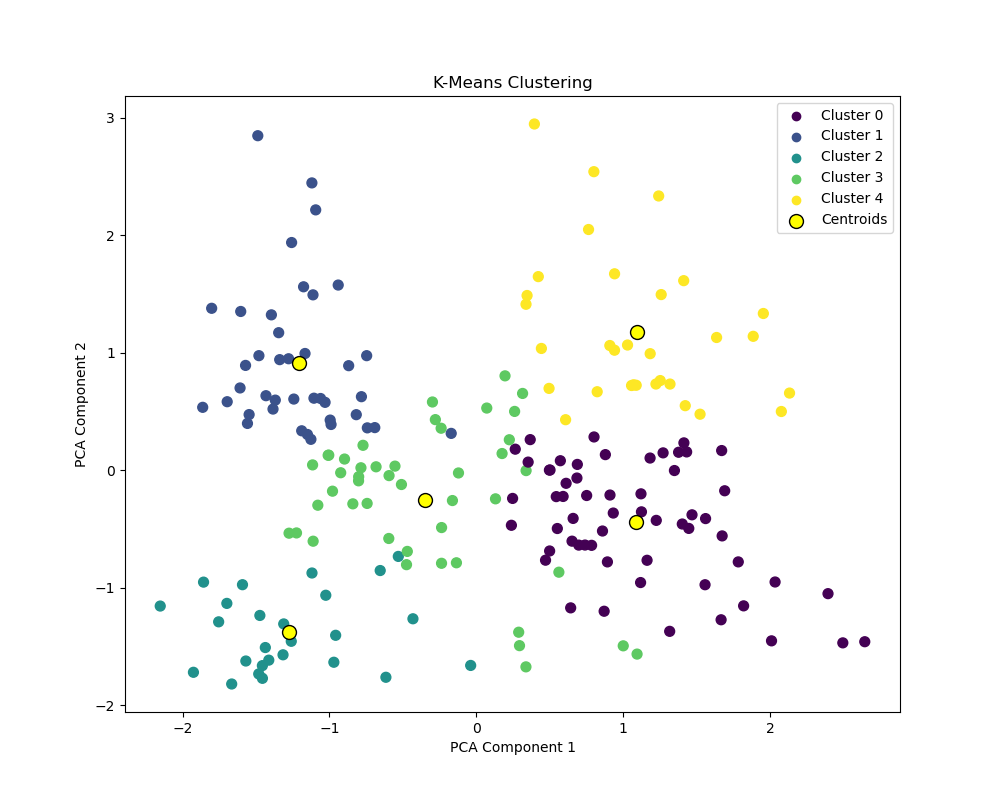
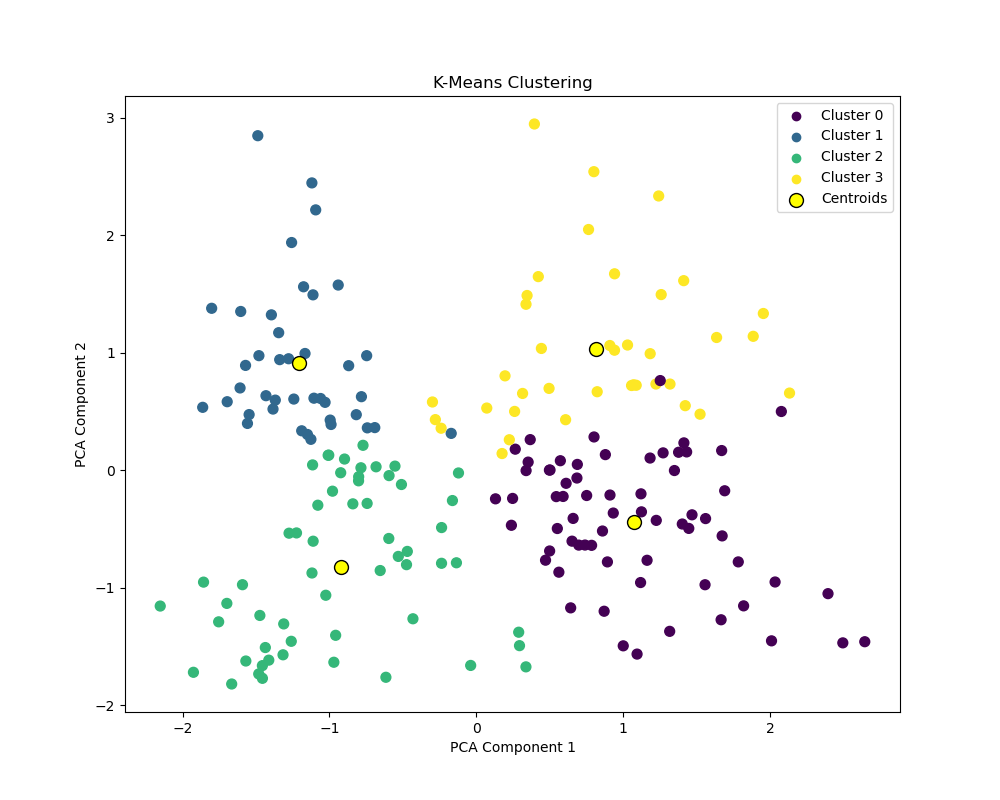
added gmm evaluation ACI

diff --git a/main.py b/main.py
@@ -1,9 +1,7 @@
 #! /usr/bin/env python
 
 #############################################################################
-#Name :Kundan ,Erin, Taj, Elliott
 #Project : 1
-
 ########## imports ###########################################################
 import pandas as pd
 import numpy as np
@@ -16,6 +14,7 @@ from sklearn.metrics import silhouette_score
 import skfuzzy as fuzz
 from scipy.spatial.distance import cdist
 from sklearn.decomposition import PCA
+from sklearn.metrics import davies_bouldin_score, calinski_harabasz_score, adjusted_rand_score, normalized_mutual_info_score
 #################################################################################
 
 
@@ -41,7 +40,7 @@ class ClusterPlay:
         data = data.drop("CustomerID", axis=1)
         
         # One-hot encoding for the Genre column 
-        data = pd.get_dummies(data, columns=['Genre'], drop_first=True)  # This will create a column 'Genre_Male'
+        data = pd.get_dummies(data, columns=['Gender'], drop_first=True)  # This will create a column 'Gender_Male'
 
         return data
 
@@ -58,7 +57,6 @@ class ClusterPlay:
         plt.savefig("correlation_graph.png")
         plt.close()
 
-    #### added taj code here ########
 
     def visualize_data(self):
         # Visualize the distribution of age, income, and spending score
@@ -73,9 +71,9 @@ class ClusterPlay:
 
         ######### by gender ############
         plt.figure(figsize=(10, 6))
-        for gender in self.data['Genre_Male'].unique():
-            plt.scatter(self.data[self.data['Genre_Male'] == gender]['Annual Income (k$)'], 
-                        self.data[self.data['Genre_Male'] == gender]['Spending Score (1-100)'], 
+        for gender in self.data['Gender_Male'].unique():
+            plt.scatter(self.data[self.data['Gender_Male'] == gender]['Annual Income (k$)'], 
+                        self.data[self.data['Gender_Male'] == gender]['Spending Score (1-100)'], 
                         label='Male' if gender == 1 else 'Female', alpha=0.7)
         plt.xlabel('Annual Income (k$)')
         plt.ylabel('Spending Score (1-100)')
@@ -207,7 +205,6 @@ class ClusterPlay:
         return kmeans.labels_, kmeans
 
     ########### not using this ##################
-    ######## added taj code here where ever distortion is present  #################
     def calculate_distortion(self, model):
         # Calculate distortion
         distances = cdist(self.scaled_data, model.cluster_centers_, 'euclidean')
@@ -268,26 +265,58 @@ class ClusterPlay:
         plt.savefig(f"{title.replace(' ', '_').lower()}.png")
         plt.close()
 
+    
+    
+    def aic_method_gaussian(self, max_clusters=10):
+        aic_values = []
+        for i in range(1, max_clusters + 1):
+            gmm = GaussianMixture(n_components=i, random_state=24)
+            gmm.fit(self.scaled_data)
+            aic_values.append(gmm.aic(self.scaled_data))
+
+        # Plotting AIC values
+        plt.figure(figsize=(10, 6))
+        plt.plot(range(1, max_clusters + 1), aic_values, marker='o')
+        plt.xlabel('Number of Clusters')
+        plt.ylabel('AIC')
+        plt.title('AIC for Gaussian Mixture Model')
+        plt.xticks(range(1, max_clusters + 1))
+        plt.grid()
+        plt.savefig("aic_gaussian_mixture.png")
+        plt.show()
+        plt.close()
+    
+    #fuc override
+    def evaluate_clustering(self, labels):
+        silhouette_avg = silhouette_score(self.scaled_data, labels)
+        dbi = davies_bouldin_score(self.scaled_data, labels)
+        ch_index = calinski_harabasz_score(self.scaled_data, labels)
+        
+        print(f'Silhouette Score: {silhouette_avg}')
+        print(f'Davies-Bouldin Index: {dbi}')
+        print(f'Calinski-Harabasz Index: {ch_index}')
+        
+
 
 def main():
-    file_name = "~/project1/Mall_Customers.csv"
+    file_name = "/jet/home/suddapal/project1_1/Mall_Customers.xls"
     pro = ClusterPlay(file_name)
     # visualize data 
     pro.visualize_data()
     # checking relation between features
     pro.correlation_graph()
     #normalize features
+    #print(pro.data.head())
     pro.normalize_features(pro.data[["Age", "Annual Income (k$)", "Spending Score (1-100)"]])
     # elbow method
     # pro.elbow_method()
-   
     ################# k-means #################################################
 
   
     ## elbow method include both distortion ,elbow and graph
     print("K means")
     pro.elbow_method_kmeans()
-    kmeans_labels, kmeans_model = pro.kmeans_clustering(n_clusters=5)
+    kmeans_labels, kmeans_model = pro.kmeans_clustering(n_clusters=4)
     pro.evaluate_clustering(kmeans_labels)
     # plot k -means cl
     #print(kmeans_labels)
@@ -301,7 +330,7 @@ def main():
     ########################## fuzzy  k-means######################################
     print("fuzzy k means")
     pro.elbow_method_fuzzy()
-    fuzzy_labels, fpc = pro.fuzzy_cmeans_clustering(n_clusters=5)
+    fuzzy_labels, fpc = pro.fuzzy_cmeans_clustering(n_clusters=4)
     fuzzy_silhouette = pro.evaluate_clustering(fuzzy_labels)
     print(f'Fuzzy Partition Coefficient: {fpc}')
     # plot fkm
@@ -310,19 +339,16 @@ def main():
     ######################### fuzzy k-means ########################################
 
 
-
     ######################## gaussian Mixture ####################################
     print("gaussian")
-    gmm_labels,gmm_model = pro.gaussian_mixture_clustering(n_clusters=5)
-    pro.evaluate_clustering(gmm_labels)
-  
-    ## for now not able calucuate distortion got to see the methods  is working both fuzz and gaus
-    #distortion = pro.calculate_distortion(gmm_model)
-    #print(f'Distortion: {distortion}')
 
+    pro.aic_method_gaussian()
+    gmm_labels,gmm_model = pro.gaussian_mixture_clustering(n_clusters=4)
+    pro.evaluate_clustering(gmm_labels)
 
     # plot GMM 
     pro.plot_clusters(gmm_labels, "Gaussian Mixture Model Clustering")
+    ####################### gaussian Mixture #####################################
 
 if __name__ == "__main__":
     main()

diff --git a/Readme.md b/Readme.md
@@ -1,0 +1,36 @@
+# Clustering Algorithms Project
+
+This project implements various clustering algorithms, including K-Means, Fuzzy K-Means, and Gaussian Mixture Models, to analyze customer data. The results are evaluated using several metrics such as Silhouette Score, Davies-Bouldin Index, and Calinski-Harabasz Index.
+
+
+will be adding  all cluster algo here 
+
+## Table of Contents
+- [Installation](#installation)
+- [Usage](#usage)
+
+## Installation
+
+To get started with this project, follow these steps:
+
+**Clone the Repository**:
+
+   ```bash
+   cd ml_project_1
+
+
+   conda env create 
+
+
+   conda env create -f env.yml
+
+   conda activate project01
+  ```
+
+## Usage
+   ```
+   python main.py
+   
+   ```
+
+
